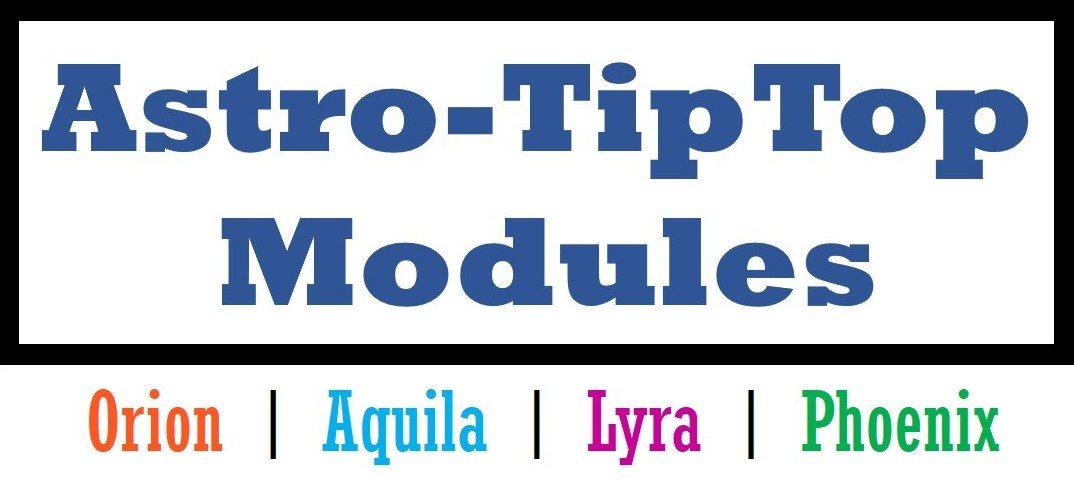
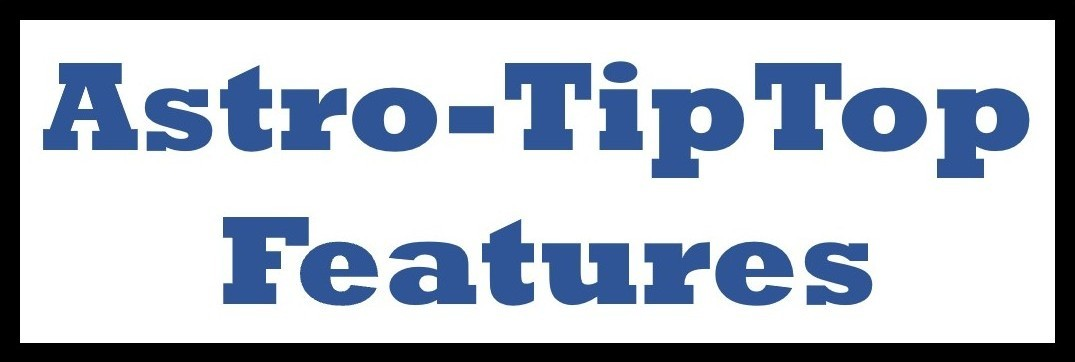
modification of website structure

diff --git a/src/components/HomepageFeatures/index.js b/src/components/HomepageFeatures/index.js
@@ -6,29 +6,30 @@ const FeatureList = [
   {
     title: (
       <a href='docs/orion/overview'>
-        TipTop App (TipTop | Orion)
+        TipTop | Core Functionality
       </a>
     ),
     img: 'img/tiptop.jpg',
     description: (
       <>
-        The foundation of it all: The <strong> TipTop </strong> fast algorithm was developed to enable AO PSF prediction for any existing AO observing modes 
+        This represents the standard way of using <strong> TipTop </strong>: a fast algorithm developed to enable AO PSF prediction for any existing AO observing modes 
         (Single-Conjugate-AO, Laser-Tomographic-AO, Multi-Conjugate-AO, Ground-Layer-AO) and any atmospheric conditions.
-        
+        It forms the foundation of the TipTop framework.
       </>
     ),
   },
   {
     title: (
       <a href="/astro-tiptop-services/astro_tiptop_modules">
-        Astro-TipTop Modules
+        Astro-TipTop Features
       </a>
     ),
     img: 'img/astro_tiptop_modules.jpg',
     description: (
       <>
-        <strong>Astro-TipTop Services</strong> offers a suite of specialized modules, all powered by the <strong>TipTop</strong> tool.{' '} <br />
-        <a href="/astro-tiptop-services/astro_tiptop_modules">Click here to learn more.</a>
+        <strong>Astro-TipTop Services</strong> offers a suite of advanced features, all powered by the core <strong>TipTop</strong> framework.{' '} 
+        Each feature builds on TipTop’s fast algorithm for AO PSF prediction, extending its capabilities to meet a variety of scientific and technical needs. <br /> 
+        Explore the available features <a href="/astro-tiptop-services/astro_tiptop_modules">here</a>. 
       </>
     ),
   },
@@ -37,7 +38,9 @@ const FeatureList = [
     img: 'img/tiptop_assistance.png',
     description: (
       <>
-        Coming soon... <br />
+        Need help with Astro-TipTop? <br /> <a href="resources/about_us"> Our support team </a> ready to assist you. 
+        Whether you're facing installation issues, running simulations, or have any general questions about the software, 
+        we are here to help. 
       </>
     ),
   },
@@ -87,11 +90,13 @@ export default function HomepageFeatures() {
               </p>
             </div>
             <p className={styles.introText} style={{ marginBottom: '0.05rem' }}>
-            Based on the core <strong>TipTop</strong> algorithm (<a href="docs/orion/overview"><strong>TipTop | Orion</strong></a>), 
-            we offer several specialized modules: <br /> <a href="docs/aquila/overview"><strong>TipTop | Aquila</strong></a>, 
-            <a href="docs/lyra/overview"><strong> TipTop | Lyra</strong></a>, 
-            and <a href="docs/phoenix/overview"><strong>TipTop | Phoenix</strong></a>, 
-            each tailored to specific needs and enhancing the overall capabilities of TipTop. 
+            Powered by the core <strong>TipTop</strong> algorithm, 
+            Astro-TipTop offers several advanced features tailored for different needs: <br /> 
+            <a href="docs/orion/overview"><strong> PSF Simulation </strong></a> (standard way of using <strong>TipTop</strong>), 
+            <a href="docs/aquila/overview"><strong> Asterism selection</strong></a>, 
+            <a href="docs/lyra/overview"><strong> PSF Fitting / PSF Extrapolation </strong></a>, 
+            and <a href="docs/phoenix/overview"><strong>PSF-R service</strong></a>. <br />
+            Building on TipTop’s core PSF delivery, each feature provides specialized functionality for advanced and diverse applications.
             </p>
           </div>
         </div>

diff --git a/docusaurus.config.js b/docusaurus.config.js
@@ -106,28 +106,24 @@ const config = {
                 label: 'How to install TipTop?',
                 to: '/docs/general/installation'
               },
-              {
-                label: 'Available AO instruments',
-                to: '/docs/general/aoinstruments'
-              },
             ]
           },
           {
             type: 'dropdown',
             sidebarId: 'tipTopSidebar',  
             position: 'left',
-            label: 'Astro-TipTop Modules',
+            label: 'Astro-TipTop Features',
             to: '/astro-tiptop-services/astro_tiptop_modules',
             items: [
               {
-                label: 'TipTop | Orion',
-                to: '#',
+                label: 'TipTop | Core Functionality',
+                to: '/docs/orion/overview',
                 className: 'menu-section-header',
               },
-              {
-                label: '• Overview',
-                to: '/docs/orion/overview',
-              },
+              // {
+              //   label: '• Overview',
+              //   to: '/docs/orion/overview',
+              // },
               {
                 label: '• Quickstart',
                 to: '/docs/orion/usage',
@@ -141,6 +137,10 @@ const config = {
                 to: '/docs/orion/howtosetup',
               },
               {
+                label: '• Available AO instruments',
+                to: '/docs/orion/aoinstruments'
+              },
+              {
                 label: '• Examples',
                 to: '/docs/orion/examples',
               },
@@ -149,19 +149,19 @@ const config = {
                 to: '/docs/orion/api_reference',
               },
               {
-                label: 'TipTop | Aquila',
+                label: 'TipTop | Asterism selection',
                 to: '/docs/aquila/overview', 
                 className: 'menu-section-header',
               },
               {
-                label: 'TipTop | Lyra',
+                label: 'TipTop | PSF Fitting / PSF Extrapolation',
                 to: '/docs/lyra/overview',
                 className: 'menu-section-header', 
               },
               {
-                label: 'TipTop | Phoenix',
-                to: '/docs/phoenix/overview',
+                label: 'TipTop | PSF-R service',
                 className: 'menu-section-header', 
+                to: '/docs/phoenix/overview',
               },
             ]
           },
@@ -224,7 +224,7 @@ const config = {
         style: 'dark',
         links: [
           {
-            title: 'Docs',
+            title: 'Tutorials',
             items: [
               {
                 label: 'TipTop Installation Tutorial',

diff --git a/sidebars.js b/sidebars.js
@@ -46,46 +46,52 @@ const sidebars = {
 
   tipTopSidebar: [
     {
+      type: 'link',
+      label: 'Astro-TipTop Features',
+      href: '/astro-tiptop-services/astro_tiptop_modules',
+    },
+    {
       type: 'category',
-      label: 'Astro-TipTop | Orion',
+      label: 'TipTop | Core Functionality',
       items: [
         'orion/overview',
         'orion/usage',
         'orion/parameterfields',
         'orion/howtosetup',
+        'orion/aoinstruments',
         'orion/examples',
         'orion/api_reference',
       ],
     },
     {
       type: 'category',
-      label: 'AstroTipTop | Aquila',
+      label: 'TipTop | Asterism selection',
       items: ['aquila/overview'],
     },
     {
       type: 'category',
-      label: 'AstroTipTop | Lyra',
+      label: 'TipTop | PSF Fitting / PSF Extrapolation',
       items: ['lyra/overview'],
     },
     {
       type: 'category',
-      label: 'AstroTipTop | Phoenix',
+      label: 'TipTop | PSF-R Service',
       items: ['phoenix/overview'],
     },
   ],
 
-  resourcesSidebar: [
-    {
-      type: 'link',
-      label: 'About us',
-      href: '/resources/about_us'
-    },
-    {
-      type: 'link',
-      label: 'Contact',
-      href: '/resources/contact'
-    },
-  ],
+  // resourcesSidebar: [
+  //   {
+  //     type: 'link',
+  //     label: 'About us',
+  //     href: '/resources/about_us'
+  //   },
+  //   {
+  //     type: 'link',
+  //     label: 'Contact',
+  //     href: '/resources/contact'
+  //   },
+  // ],
 
 };
 

diff --git a/src/pages/astro_tiptop_modules.js b/src/pages/astro_tiptop_modules.js
@@ -3,10 +3,16 @@ import Layout from '@theme/Layout';
 
 export default function AstroTipTopModules() {
   return (
-    <Layout title="Astro-TipTop Services">
+    <Layout title="Astro-TipTop Features">
       <main className="container margin-vert--xl">
-        <h1>Astro-TipTop Services</h1>
-        <p>Coming soon...</p>
+        <h1>Astro-TipTop Services - What TipTop can do?</h1>
+        <strong>Astro-TipTop Services</strong> offers a suite of advanced features, all powered by the core <strong>TipTop</strong> framework.{' '} 
+        Each feature builds on TipTop’s fast algorithm for AO PSF prediction, extending its capabilities to meet a variety of scientific and technical needs. <br /> 
+        Explore the available features: <br />
+        <a href="docs/orion/overview"><strong> TipTop | Core Functionality </strong></a> – The standard and most direct use of TipTop: compute AO PSFs for any AO mode (SCAO, LTAO, MCAO, GLAO) under arbitrary conditions.  <br />
+        <a href="docs/aquila/overview"><strong> TipTop | Asterism Selection </strong></a> – Guide Star Asterism selection.  <br />
+        <a href="docs/lyra/overview"><strong> TipTop | PSF Fitting / Extrapolation </strong></a> – Model and predict PSFs across your field with precision.  <br />
+        <a href="docs/phoenix/overview"><strong> TipTop | PSF-R service </strong></a> – currently for SPHERE & MUSE-NFM.  <br />
       </main>
     </Layout>
   );

diff --git a/src/pages/resources/references.js b/src/pages/resources/references.js
@@ -52,7 +52,7 @@ export default function ReferencesPage() {
             </div>
             <div style={{ marginBottom: '1.5rem' }}>
                 <h3 style={{ marginBottom: '0.5rem' }}>
-                    <a href="https://doi.org/10.48550/arXiv.2101.06486" target="_blank" rel="noopener noreferrer">
+                    <a href="https://doi.org/10.48550/arXiv.2505.13611" target="_blank" rel="noopener noreferrer">
                         [2] Tortora, C., Tozzi, G., Agapito, G., La Barbera, F., Spiniello, C. Li, R., Carlà, G., D'Ago, G., Ghose, E., Mannucci, F., Napolitano, N. R., Pinna, E., Arnaboldi, M.,
                          Bevacqua, D., Ferré-Mateu, A., Gallazzi, A., Hartke, J., Hunt, L. K., Maksymowicz-Maciata, M., Pulsoni, C., Saracco, P., Scognamiglio, D., Spavone, M.,
                         "INSPIRE: INvestigating Stellar Populations In RElics. IX. KiDS J0842+0059: the first fully confirmed relic beyond the local Universe", 

diff --git a/src/pages/resources/users.js b/src/pages/resources/users.js
@@ -21,7 +21,7 @@ export default function UsersPage() {
           </div>
 
           {/* Main Content */}
-          <div className="col col--9">
+          <div className="col col--7">
             <h1 style={{ textAlign: 'center' }}>Community of TipTop Users</h1>
             <p style={{ textAlign: 'center', maxWidth: '700px', margin: '0 auto 2rem' }}>
               If you’re using TipTop, let us know! Fill out the form to appear here and connect with other users.

diff --git a/src/css/custom.css b/src/css/custom.css
@@ -94,7 +94,7 @@ body {
 
 .menu-section-header {
   font-weight: bold;
-  pointer-events: none;
+  /* pointer-events: none; */
   opacity: 1;
 }
 

diff --git a/docs/orion/overview.md b/docs/orion/overview.md
@@ -4,10 +4,6 @@ title: Overview
 sidebar_label: Overview
 ---
 
-## What is TipTop ?
-<!-- ![TipTop](/img/tiptop.jpg)
-<img src="/static/img/tiptop.jpg" width="100" height="100"/> -->
-
 <p align="justify">
 The **TipTop** tool takes its roots in an analytical approach, where the simulations are done in the Fourier domain. This allows to reach a very fast computation time (few seconds per PSF with GPU acceleration), and efficiently explore the wide parameter space. \
 **TipTop** has been developed in Python, taking advantage of previous work developed in different languages, and unifying them in a single framework.

diff --git a/docs/orion/AO_instruments.md b/docs/orion/AO_instruments.md
@@ -5,6 +5,9 @@ sidebar_label: Available AO instruments
 ---
 
 ## ERIS
+<p align="justify">
+
+</p>
 
 ## HARMONI
 
